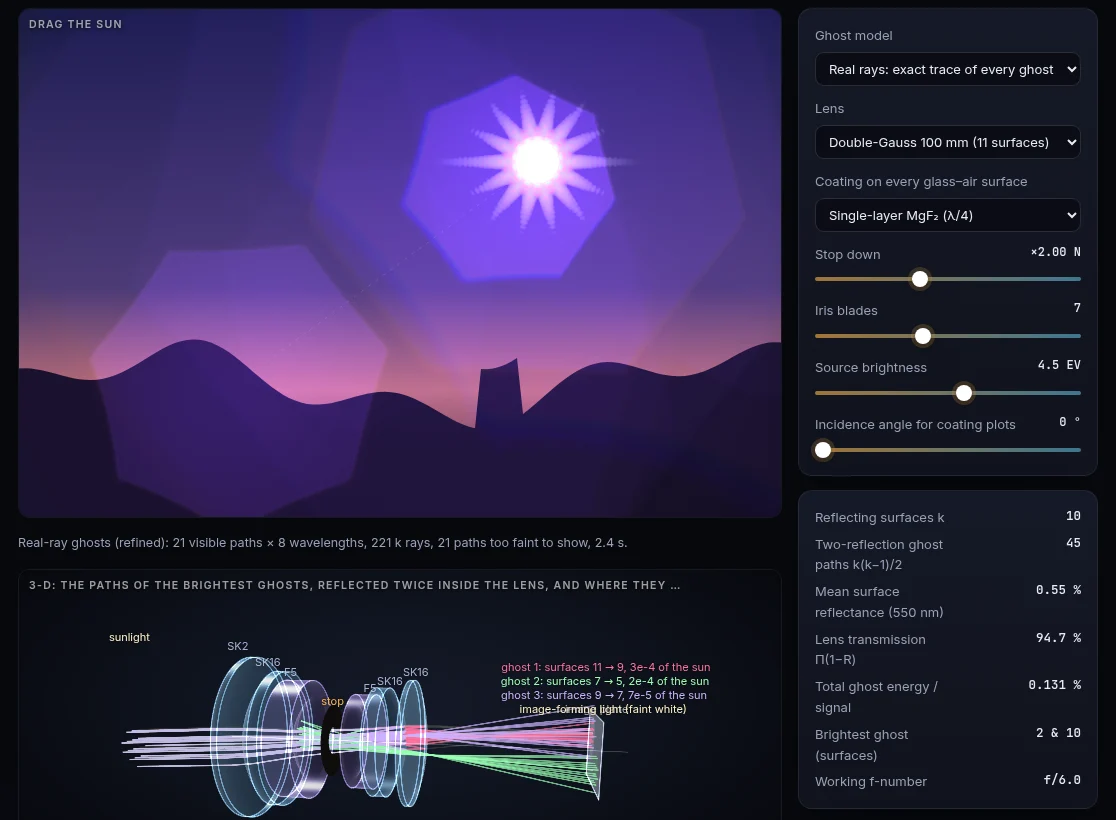
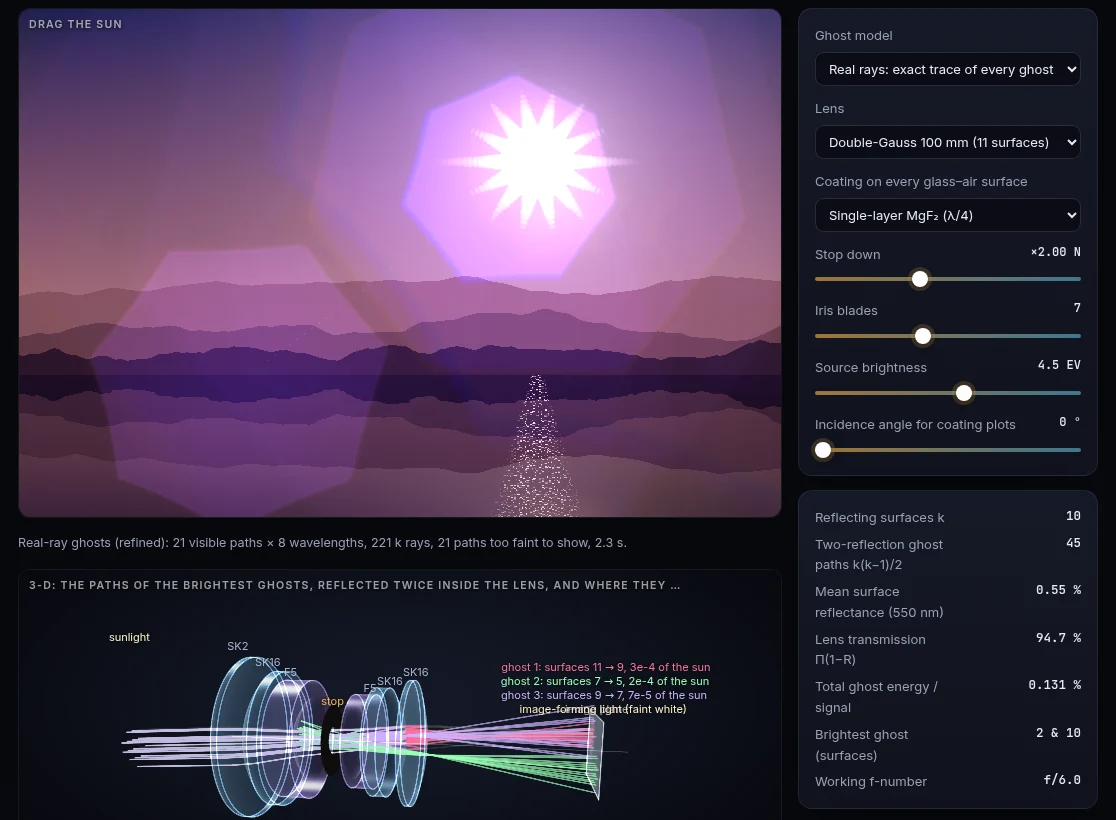
feat(flare): a dusk scene rendered in linear light (#264)
js/lib/flarescene.js renders the flare laboratory's scene procedurally:
a sky with a forward-scattering glow that follows the dragged sun, thin
clouds lit from below, three ridges fading into the haze, and a lake
that mirrors them with ripples and a glitter path. Linear radiance goes
through one filmic tone curve and is drawn at device pixels; the ghosts
and the sunstar are added on top as before.

diff --git a/js/lib/flarescene.js b/js/lib/flarescene.js
@@ -1,0 +1,95 @@
+// The flare laboratory's scene: a dusk landscape rendered in linear light (relative radiance; the
+// sky at the horizon is about 1), so that the sun, the sky round it and the dark foreground keep
+// their real contrast until one tone curve maps them to the screen. A sky with the forward-
+// scattering glow round the sun, thin clouds lit from below, three mountain ridges fading into the
+// haze with distance (aerial perspective), and a lake that mirrors all of it with a glitter path
+// under the sun. Procedural and seeded: the same scene every time.
+import { uniform } from './random.js';
+
+export const HORIZON = 0.72; // the lake's far shore, as a fraction of the picture height
+const SUN = [1, 0.78, 0.55]; // colour of the low sun and of the light it scatters forwards
+const ZENITH = [0.035, 0.06, 0.16], LOW = [1, 0.5, 0.3];
+
+// Tables built once: smooth value noise, the three ridge lines and the cloud layer.
+export function makeScene(seed = 11) {
+  const r = uniform(seed), N = 1024, tab = Float32Array.from({ length: N }, r);
+  const noise = (x) => { const i = Math.floor(x), f = x - i, s = f * f * (3 - 2 * f); return tab[i & (N - 1)] + (tab[(i + 1) & (N - 1)] - tab[i & (N - 1)]) * s; };
+  const fbm = (x, oct = 5) => { let s = 0, a = 0.5, f = 1; for (let o = 0; o < oct; o++) { s += a * noise(x * f + o * 37.13); f *= 2.03; a *= 0.5; } return s / (1 - 0.5 ** oct); };
+  // ridges, far to near: the top edge (fraction of the height) at 1025 points across the picture
+  const R = 1024;
+  const ridges = [
+    { base: 0.585, amp: 0.10, freq: 2.6, haze: 0.70, col: [0.06, 0.05, 0.09] },
+    { base: 0.64, amp: 0.075, freq: 4.4, haze: 0.42, col: [0.03, 0.025, 0.045] },
+    { base: 0.69, amp: 0.05, freq: 8.0, haze: 0.12, col: [0.008, 0.007, 0.012] },
+  ].map((g, k) => ({ ...g, top: Float32Array.from({ length: R + 1 }, (_, i) => Math.min(HORIZON - 0.004, g.base - g.amp * (fbm((i / R) * g.freq + 17 * k) - 0.35) * 2)) }));
+  // clouds between 25 % and 60 % of the height: density on a 512 × 160 grid
+  const CW = 512, CH = 160, cloud = new Float32Array(CW * CH);
+  for (let j = 0; j < CH; j++) {
+    const v = 0.25 + (0.35 * j) / (CH - 1), band = Math.exp(-(((v - 0.42) / 0.07) ** 2));
+    for (let i = 0; i < CW; i++) {
+      const u = i / (CW - 1), d = fbm(u * 5 + 0.6 * fbm(v * 9 + 3, 3) + 50, 5);
+      cloud[j * CW + i] = Math.max(0, Math.min(1, (d - 0.5) * 3.2)) * band;
+    }
+  }
+  return { tab, noise, ridges, R, cloud, CW, CH };
+}
+
+const lerp3 = (a, b, t) => [a[0] + (b[0] - a[0]) * t, a[1] + (b[1] - a[1]) * t, a[2] + (b[2] - a[2]) * t];
+function ridgeTop(g, R, u) { const x = Math.min(1, Math.max(0, u)) * R, i = Math.min(R - 1, x | 0), f = x - i; return g.top[i] + (g.top[i + 1] - g.top[i]) * f; }
+
+// Radiance of the sky or the mountains (no lake) at (u, v) ∈ [0, 1]² (v downwards), with the sun at
+// (su, sv) and the picture's width/height ratio aspect; writes linear RGB into out.
+function above(S, u, v, su, sv, aspect, out) {
+  const d = Math.hypot((u - su) * aspect, v - sv);
+  const near = 2.4 * Math.exp(-d / 0.045), wide = 0.85 * Math.exp(-d / 0.24); // Mie forward lobe
+  // mountains, nearest first: dark rock seen through haze that is lit like the sky at the horizon
+  for (let k = S.ridges.length - 1; k >= 0; k--) {
+    const g = S.ridges[k];
+    if (v >= ridgeTop(g, S.R, u)) {
+      const dh = Math.hypot((u - su) * aspect, HORIZON - 0.04 - sv), hz = 1 + 1.6 * Math.exp(-dh / 0.2);
+      const c = lerp3(g.col, LOW, g.haze * 0.55);
+      for (let q = 0; q < 3; q++) out[q] = c[q] * (g.haze > 0.3 ? hz : 1 + 0.25 * (hz - 1));
+      return out;
+    }
+  }
+  // sky: warm at the horizon, deep blue above, with the glow round the sun
+  const e = Math.min(1, Math.max(0, (HORIZON - v) / HORIZON)), base = lerp3(LOW, ZENITH, Math.pow(e, 0.55));
+  for (let q = 0; q < 3; q++) out[q] = base[q] + SUN[q] * (near + wide);
+  // thin clouds, dark against the zenith and lit from below near the sun
+  if (v > 0.25 && v < 0.6) {
+    const x = u * (S.CW - 1), y = ((v - 0.25) / 0.35) * (S.CH - 1), i = Math.min(S.CW - 2, x | 0), j = Math.min(S.CH - 2, y | 0), fx = x - i, fy = y - j, c = S.cloud;
+    const dens = (c[j * S.CW + i] * (1 - fx) + c[j * S.CW + i + 1] * fx) * (1 - fy) + (c[(j + 1) * S.CW + i] * (1 - fx) + c[(j + 1) * S.CW + i + 1] * fx) * fy;
+    if (dens > 0) {
+      const lit = 0.18 + 2.2 * wide + 1.2 * near;
+      for (let q = 0; q < 3; q++) out[q] = out[q] * (1 - 0.85 * dens) + dens * (0.06 * base[q] + SUN[q] * lit * (q === 0 ? 1 : q === 1 ? 0.8 : 0.62));
+    }
+  }
+  return out;
+}
+
+// Radiance of the whole scene at (u, v): above the horizon the sky and mountains; below it the lake,
+// which mirrors them with small ripples. Water seen a few degrees below the horizon reflects most of
+// the light (Fresnel reflectance about 0.6 at 85° incidence), less as the view steepens towards the
+// near shore: here 0.55 at the far shore falling to 0.30. Under the sun, a glitter path of glints
+// widens towards the viewer.
+export function radiance(S, u, v, su, sv, aspect, out) {
+  if (v < HORIZON) return above(S, u, v, su, sv, aspect, out);
+  const depth = v - HORIZON;
+  const ripple = 0.0035 * (S.noise(depth * 2400 / (1 + depth * 40)) - 0.5) * (1 + depth * 12);
+  above(S, u + ripple, 2 * HORIZON - v, su, sv, aspect, out);
+  const refl = 0.55 - 0.25 * Math.min(1, depth / 0.28);
+  out[0] *= refl * 0.9; out[1] *= refl * 0.95; out[2] *= refl;
+  if (sv < HORIZON) {
+    // glints: a band under the sun that widens towards the viewer
+    const half = 0.012 + depth * 0.3, dx = Math.abs(u - su) * aspect;
+    if (dx < half) {
+      const cell = S.tab[(Math.floor(u * 520) * 7 + Math.floor(depth * 1600) * 131) & 1023];
+      const g = Math.pow(cell, 14) * 9 * (1 - dx / half) * Math.exp(-depth / 0.35);
+      for (let q = 0; q < 3; q++) out[q] += SUN[q] * g;
+    }
+  }
+  return out;
+}
+
+// Filmic tone curve (Narkowicz's fit to the ACES reference rendering), linear in → display-linear out.
+export const aces = (x) => { const y = (x * (2.51 * x + 0.03)) / (x * (2.43 * x + 0.59) + 0.14); return y < 0 ? 0 : y > 1 ? 1 : y; };

diff --git a/js/modules/flare.js b/js/modules/flare.js
@@ -9,6 +9,8 @@ import { fresnel, stackReflectance, COATINGS } from '../lib/thinfilm.js';
 import { spectralBasis, linspace, cmf, xyzToLinearRGB, gamutClip, oetf } from '../lib/color.js';
 import { rasterAperture, psf, rescale } from '../lib/pupil.js';
 import { plot, range } from '../lib/plot.js';
+import { paint, encode } from '../lib/pixels.js';
+import { makeScene, radiance, aces } from '../lib/flarescene.js';
 import { t } from '../lib/i18n.js';
 
 const LAMS = linspace(420, 680, 8);
@@ -198,14 +200,15 @@ export default function mount(root, meta) {
     view.redraw(); rplot.redraw(); fplot.redraw();
   }, 40);
 
+  // the scene in linear light, mapped to the screen by one tone curve (js/lib/flarescene.js); the
+  // ghosts and the sunstar are added on top as before
+  const SCENE = makeScene(), px = [0, 0, 0], EXPOSE = 0.3;
   function drawView(ctx, w, hh) {
-    // dusk landscape
-    const sky = ctx.createLinearGradient(0, 0, 0, hh);
-    sky.addColorStop(0, '#0d1630'); sky.addColorStop(0.55, '#3a3350'); sky.addColorStop(0.75, '#a8665a'); sky.addColorStop(1, '#2b1d1d');
-    ctx.fillStyle = sky; ctx.fillRect(0, 0, w, hh);
-    ctx.fillStyle = '#0b0b10'; ctx.beginPath(); ctx.moveTo(0, hh);
-    for (let x = 0; x <= w; x += 6) ctx.lineTo(x, hh * 0.74 - 30 * Math.sin(x / 90) - 18 * Math.sin(x / 31 + 2) - (x > w * 0.6 && x < w * 0.66 ? 60 : 0));
-    ctx.lineTo(w, hh); ctx.fill();
+    const [su, sv] = sun, aspect = w / hh;
+    paint(view, { x: 0, y: 0, w, h: hh }, (u, v, o) => {
+      radiance(SCENE, u, v, su, sv, aspect, px);
+      o[0] = encode(aces(px[0] * EXPOSE)); o[1] = encode(aces(px[1] * EXPOSE)); o[2] = encode(aces(px[2] * EXPOSE));
+    }, `${su},${sv}`);
     if (!G) return;
     const st = G.st;
     // sensor 36 × 24 mm mapped to the canvas; field angle from sun position

diff --git a/ROADMAP.md b/ROADMAP.md
@@ -78,7 +78,7 @@ flowchart LR
 | Laboratories | 64 pages, including 9 missions and the reference pages | see Planned milestones |
 | Catalogue entries | 239, each with details and a worked example | link every new lab |
 | Lens prescriptions | 15: camera lenses from the Petzval to the Biogon, Hubble, a Cassegrain and a three-mirror anastigmat; aspheres, mirrors, model glasses and file import | (none planned) |
-| Automated tests | 479 tests (physics, blur, lens I/O, ghosts, bokeh, polarisation, macro, colour, AO) + link check + browser smoke test in CI | more coverage per new lab |
+| Automated tests | 481 tests (physics, blur, lens I/O, ghosts, bokeh, polarisation, macro, colour, AO) + link check + browser smoke test in CI | more coverage per new lab |
 | Deployment | GitHub Pages, deployed from `main` by CI | (none) |
 
 ---
@@ -571,7 +571,7 @@ Candidates, in order of how much the third dimension adds:
 - [x] **P2 · M** **Motion**: tween between parameter states and animate page changes, respecting reduced motion. *In a guided tour, Next glides each slider to its new value (about ½ s, in slider position so logarithmic controls move evenly; `setControl(key, v, { animate: true })`), with the page recomputing on the way; the reader's own input stops it. A new page fades and rises into place. Both are off with reduced motion. Cross-fading a picture between two computed states remains possible later.*
 - [ ] **P2 · L** **3-D materials**: glass with reflections and edge highlights, soft shadows, label collision avoidance, tighter framing.
 - [x] **P3 · M** **Phone layout**: the picture pinned above the controls sheet. *Opening the sheet fixes the lab's first picture to the top of the screen (a placeholder keeps the page still) and fits the sheet below it; it stays while the page scrolls and is placed again when the screen turns. Checked by the smoke test on three pages.*
-- [ ] **P3 · M** **A real flare scene**: a procedurally rendered high-dynamic-range scene instead of the flat landscape.
+- [x] **P3 · M** **A real flare scene**: a procedurally rendered high-dynamic-range scene instead of the flat landscape. *`js/lib/flarescene.js`: a dusk sky with the forward-scattering glow round the sun (it follows the dragged sun), thin clouds lit from below, three ridges fading into the haze, and a lake that mirrors them with ripples and a glitter path; linear radiance through one filmic tone curve, drawn at device pixels. The ghosts and the sunstar are added on top unchanged. The ghosts are still added in display values; adding them in linear light before the tone curve would need their calibration redone.*
 
 ### v2.0 Learning platform
 

diff --git a/README.md b/README.md
@@ -922,6 +922,7 @@ Optica_Viva/
 │   │   ├── earthobs3d.js      3-D Earth observation at true scale: orbit, swath, push-broom footprint and imaged strip
 │   │   ├── seeing3d.js        3-D seeing: the frozen-flow phase screen as a relief, the pupil, the residual above it
 │   │   ├── flare3d.js         3-D flare: exact paths of the brightest ghosts through the lens, ranked by irradiance
+│   │   ├── flarescene.js      The flare laboratory's dusk scene in linear light: sky glow, clouds, hazy ridges, a mirroring lake
 │   │   ├── bokeh3d.js         3-D bokeh: rays round the iris through the traced lens, axial and corner footprints
 │   │   ├── starshade3d.js     3-D starshade geometry: petals, separation, IWA line of sight, the shadow on the pupil
 │   │   ├── transit3d.js       3-D transit geometry at true scale: star, tilted orbit, sight-line cylinder, chord, b

diff --git a/CHANGELOG.md b/CHANGELOG.md
@@ -8,6 +8,7 @@ The format follows [Keep a Changelog](https://keepachangelog.com/en/1.1.0/), and
 
 ### Changed
 - **Phones: the picture stays in view while you move the sliders.** Opening the controls sheet pins the laboratory's first picture to the top of the screen and fits the sheet below it, however far the page scrolls; closing the sheet puts the picture back. The smoke test checks it on the PSF, black-hole and depth-of-field pages.
+- **Flare, ghosts & coatings: a real scene.** The flat dusk drawing is replaced by a landscape rendered in linear light (`js/lib/flarescene.js`): a sky whose glow follows the sun as you drag it, thin clouds lit from below, three mountain ridges fading into the haze, and a lake that mirrors them with ripples and a glitter path under the sun, mapped to the screen by one filmic tone curve at device pixels. The ghosts and the sunstar are computed and added as before.
 
 ## [1.38.0] - 2026-11-11
 
